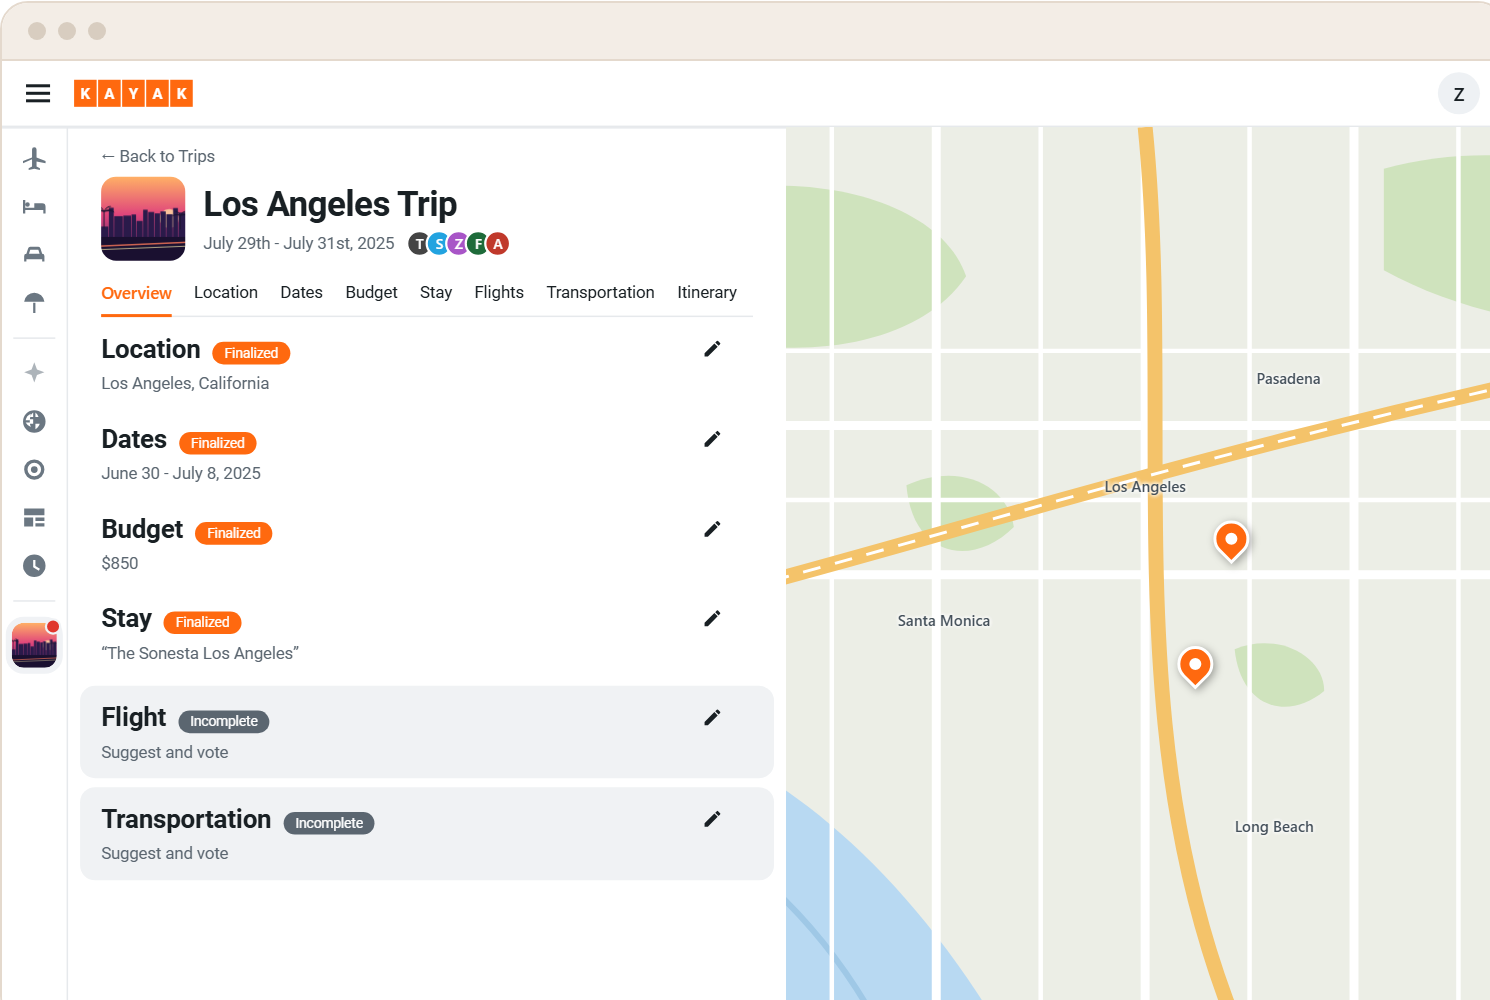
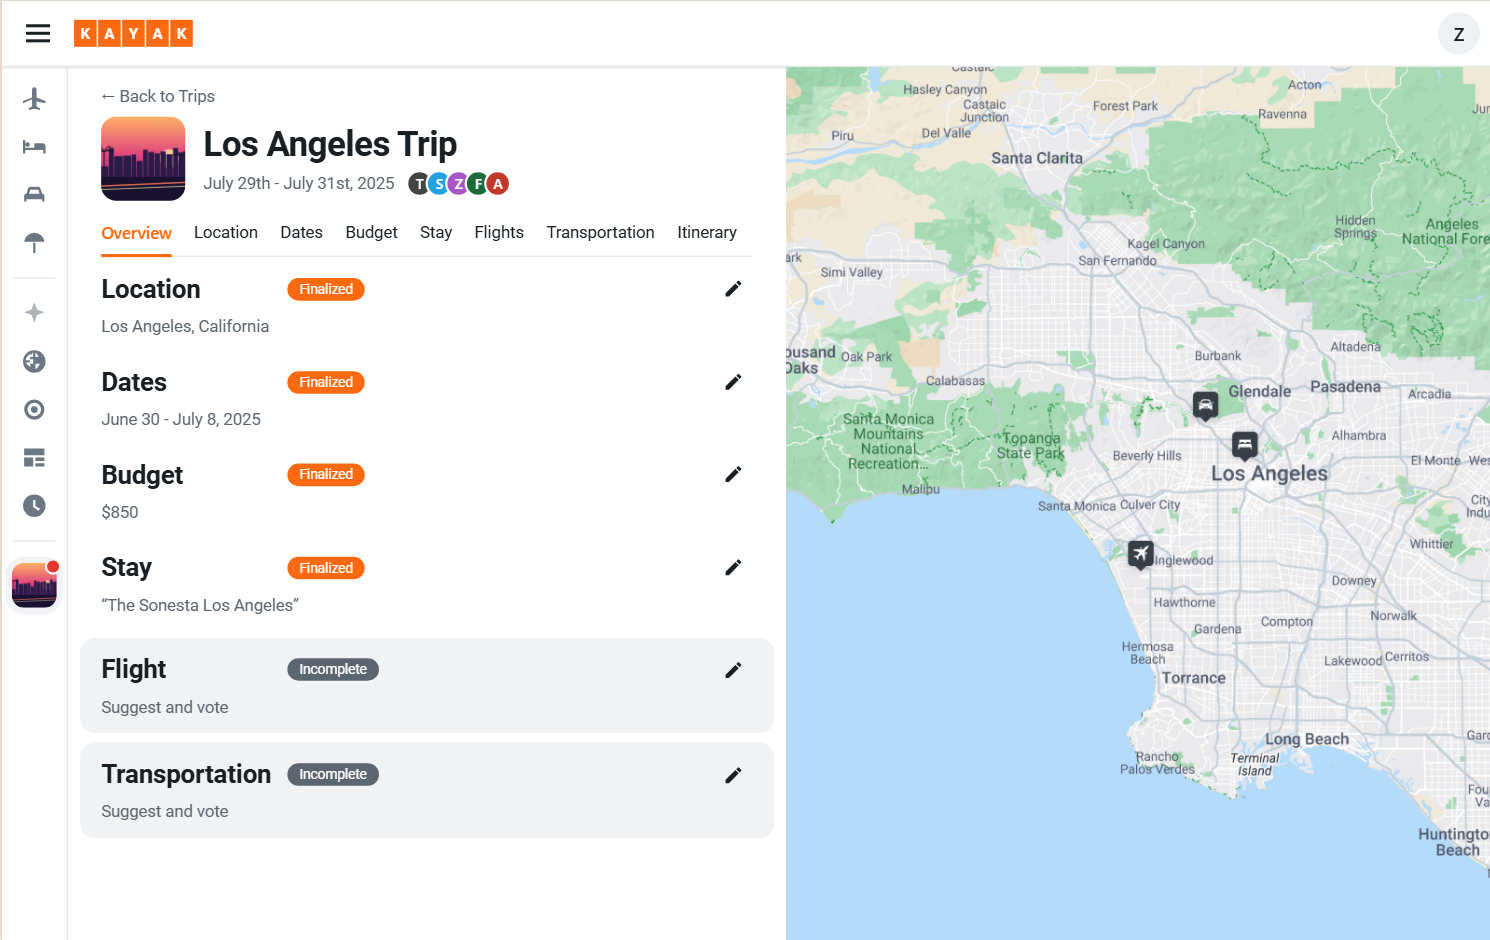
Use real Figma map; align status chips and pencil in Kayak mockups
Copilot-Session: d03eeb52-1bb5-4adc-a6b2-1b01bb792acd

diff --git a/kayak-mock.css b/kayak-mock.css
@@ -347,3 +347,5 @@
 .ln-r>p{margin:0!important;max-width:none!important}.ln-hd h5{text-transform:uppercase;letter-spacing:.12em;font-size:.75rem;color:#c24e00;font-weight:700}.ln-hd{max-width:none!important}
 .cs .ov-split{align-items:start!important;margin-top:1.5rem}@media(max-width:1120px){.cs .ov-split{grid-template-columns:1fr!important;gap:1.75rem!important}}
 .dv-nav button{display:flex!important;flex-direction:column;justify-content:flex-start}.sk-w{margin:.2rem 0 0!important}@media(max-width:1120px){.wstep,.wstep:nth-child(even){grid-template-columns:1fr!important;gap:1.1rem!important}.wstep:nth-child(even) .wtxt{order:0}.wtxt p{max-width:34rem}.cs .problem-split{grid-template-columns:1fr!important;gap:1.75rem!important}.walk{gap:3.5rem}}
+.kx .x-map{background:url(img/kayak/map-la.png) 60% 55%/cover!important}.kx .x-map.fl{background:url(img/kayak/map-la-wide.png) center/cover!important}.kx .x-map .x-pin,.kx .x-map .x-pl{display:none!important}
+.kx .x-st{display:inline-block;min-width:124px;margin-right:0;vertical-align:middle}.kx .x-sc .x-chip{vertical-align:middle}.kx .x-sc .x-pen{right:6px;top:50%;margin-top:-17px}.kx .x-sc.inc .x-pen{transform:none;right:20px}.kx .x-sc .x-v{margin-top:6px}
